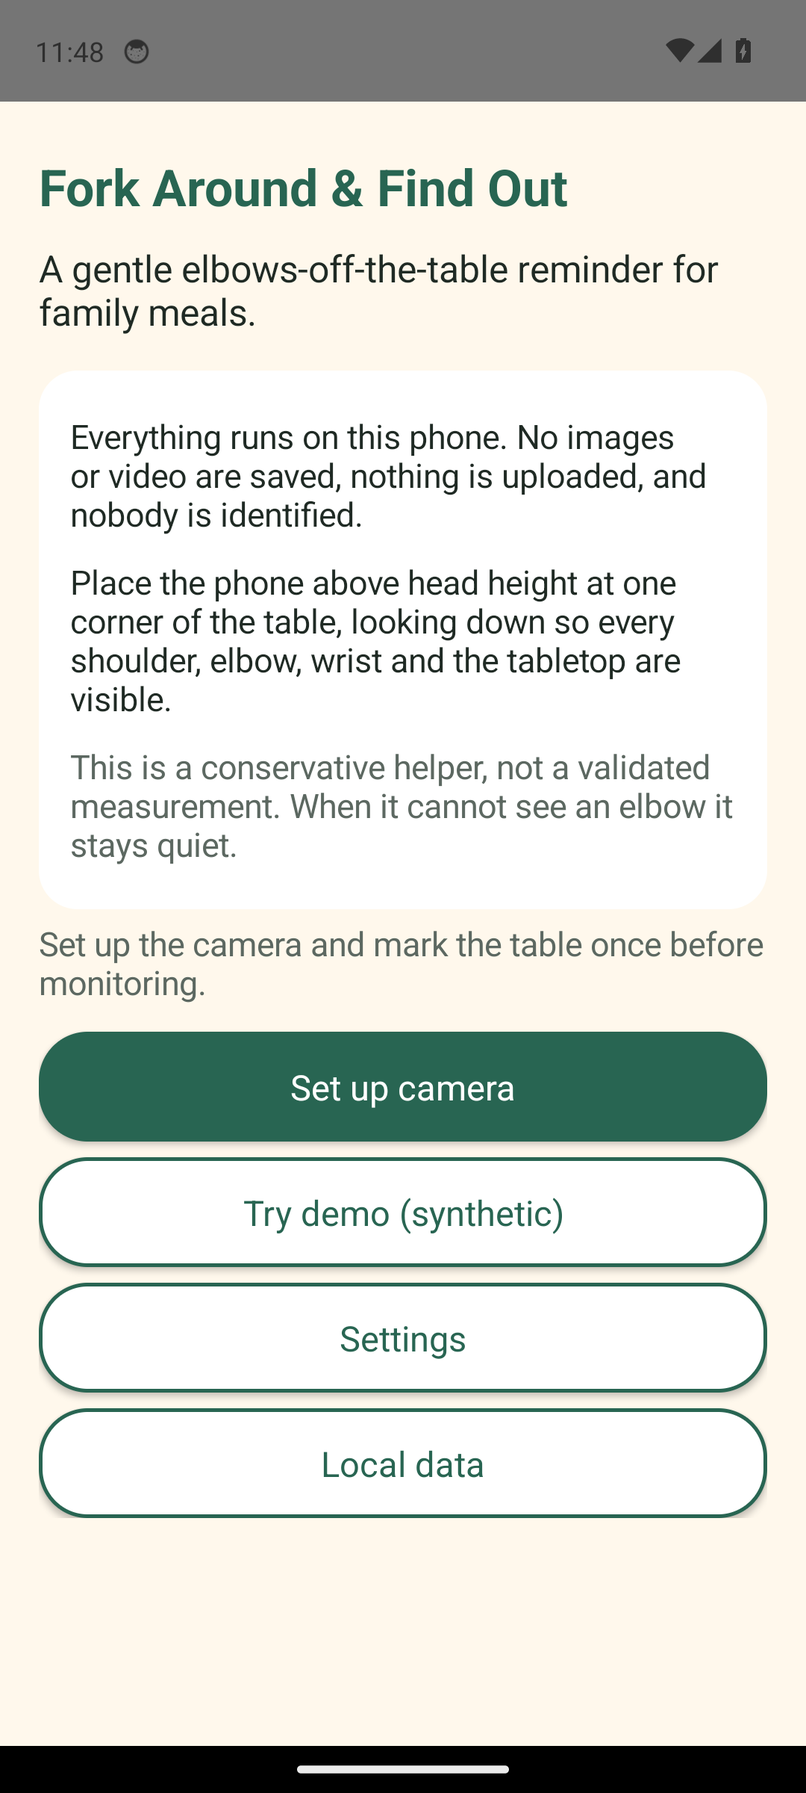
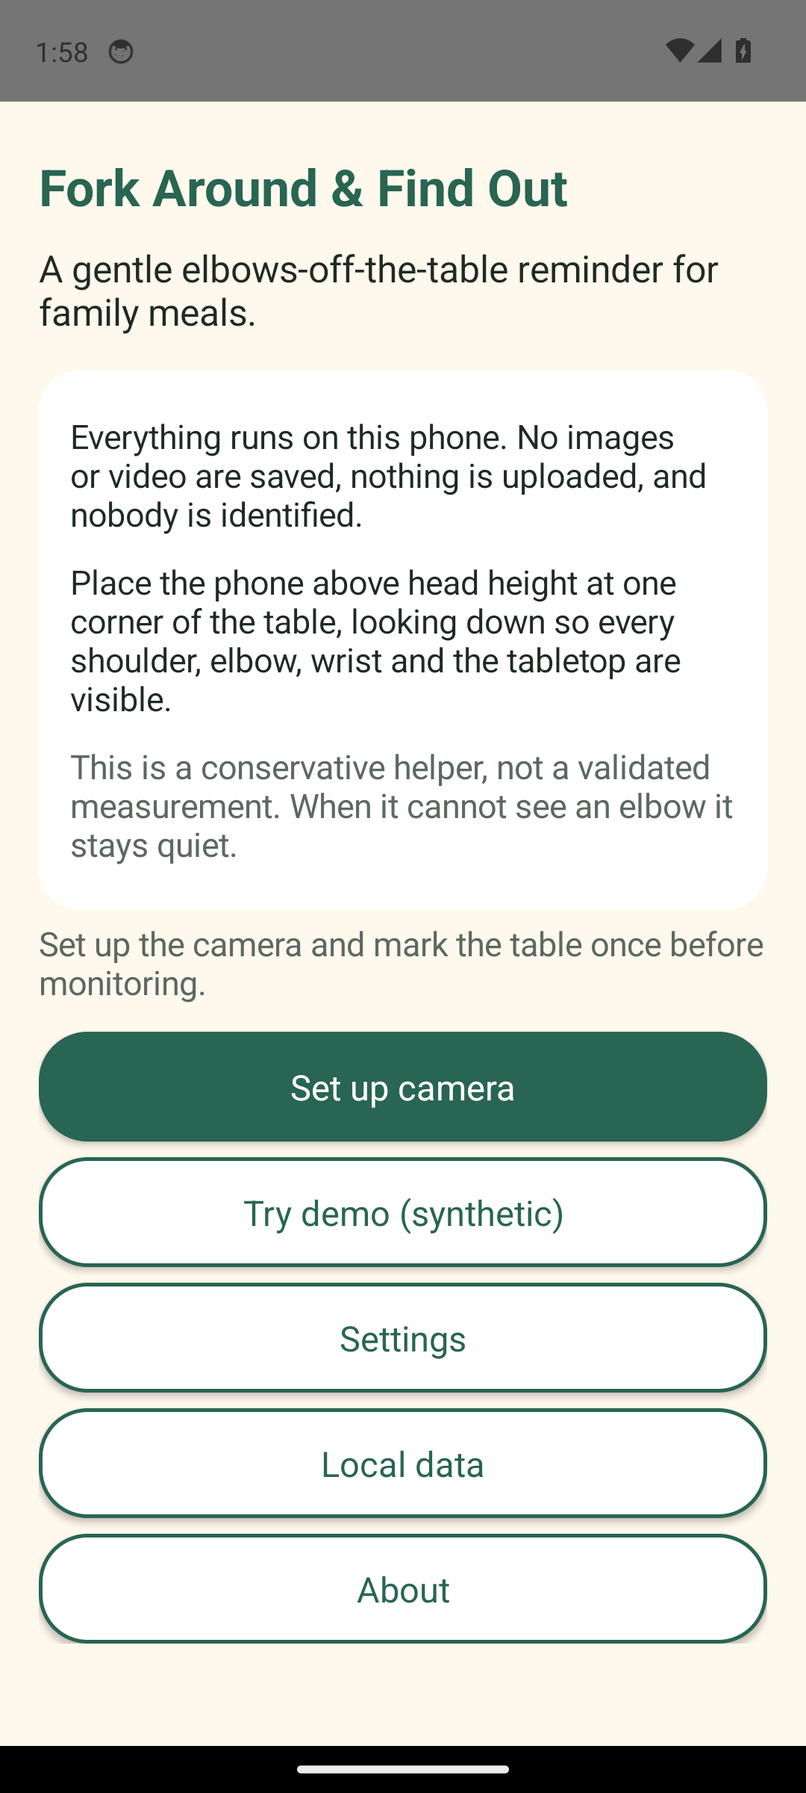
docs: complete README, architecture and hardware-validation protocol

diff --git a/scripts/check_links.py b/scripts/check_links.py
@@ -1,0 +1,45 @@
+#!/usr/bin/env python3
+# Copyright (C) 2026 Marcel Petrick. SPDX-License-Identifier: GPL-3.0-or-later.
+"""Check that relative Markdown links and image paths point to existing files, and that
+#anchors exist as headings in the target. External (http/https/mailto) links are skipped.
+
+Usage: scripts/check_links.py [FILE.md ...]   (default: all tracked *.md files)
+"""
+import re
+import subprocess
+import sys
+from pathlib import Path
+
+LINK = re.compile(r"!?\[[^\]]*\]\(([^)\s]+)\)")
+
+
+def anchors(path: Path) -> set:
+    result = set()
+    for line in path.read_text(encoding="utf-8").splitlines():
+        if line.startswith("#"):
+            title = line.lstrip("#").strip().lower()
+            result.add(re.sub(r"[^\w\- ]", "", title).replace(" ", "-"))
+    return result
+
+
+def check(markdown: Path) -> list:
+    problems = []
+    for target in LINK.findall(markdown.read_text(encoding="utf-8")):
+        if re.match(r"^(https?:|mailto:)", target):
+            continue
+        file_part, _, anchor = target.partition("#")
+        resolved = (markdown.parent / file_part).resolve() if file_part else markdown.resolve()
+        if not resolved.exists():
+            problems.append(f"{markdown}: missing {target}")
+        elif anchor and resolved.suffix == ".md" and anchor not in anchors(resolved):
+            problems.append(f"{markdown}: missing anchor {target}")
+    return problems
+
+
+if __name__ == "__main__":
+    files = [Path(f) for f in sys.argv[1:]] or [
+        Path(f) for f in subprocess.run(["git", "ls-files", "*.md"], capture_output=True, text=True, check=True).stdout.split()
+    ]
+    issues = [problem for markdown in files for problem in check(markdown)]
+    print("\n".join(issues) or f"{len(files)} Markdown files: all relative links resolve")
+    sys.exit(1 if issues else 0)

diff --git a/README.md b/README.md
@@ -1,40 +1,170 @@
 # Fork Around & Find Out
 
 [![Pipeline](https://github.com/marcelpetrick/ForkAroundAndFindOut/actions/workflows/pipeline.yml/badge.svg?branch=main)](https://github.com/marcelpetrick/ForkAroundAndFindOut/actions/workflows/pipeline.yml)
+[![Latest Release](https://img.shields.io/github/v/release/marcelpetrick/ForkAroundAndFindOut?sort=semver&include_prereleases)](https://github.com/marcelpetrick/ForkAroundAndFindOut/releases/latest)
 [![License: GPL v3 or later](https://img.shields.io/badge/license-GPLv3%20or%20later-blue.svg)](LICENSE)
 [![Android 14+](https://img.shields.io/badge/Android-14%2B%20%28API%2034%29-3ddc84.svg)](https://developer.android.com/about/versions/14)
 [![Kotlin 2.2](https://img.shields.io/badge/Kotlin-2.2-7f52ff.svg)](https://kotlinlang.org/)
 [![CameraX 1.6.2](https://img.shields.io/badge/CameraX-1.6.2-4285f4.svg)](https://developer.android.com/media/camera/camerax)
 [![MediaPipe Tasks 1.0.0](https://img.shields.io/badge/MediaPipe%20Tasks-1.0.0-0097a7.svg)](https://ai.google.dev/edge/mediapipe/solutions/vision/pose_landmarker/android)
-[![Coverage: 98%](https://img.shields.io/badge/coverage-98%25-brightgreen.svg)](app/build.gradle.kts)
+[![Coverage: 98%](https://img.shields.io/badge/coverage-98%25-brightgreen.svg)](localPipeline.sh)
 [![Coverage gate: 95%](https://img.shields.io/badge/coverage%20gate-95%25-brightgreen.svg)](localPipeline.sh)
-[![Offline: on-device](https://img.shields.io/badge/processing-on--device%2C%20offline-success.svg)](docs/detection.md)
+[![GHCR image](https://img.shields.io/badge/ghcr.io-forkaroundandfindout-2496ed.svg?logo=docker&logoColor=white)](https://github.com/marcelpetrick/ForkAroundAndFindOut/pkgs/container/forkaroundandfindout)
+[![Offline: no internet permission](https://img.shields.io/badge/network-none%20%28no%20INTERNET%20permission%29-success.svg)](docs/architecture.md#privacy-by-construction)
+[![Languages: en, de](https://img.shields.io/badge/languages-en%20%7C%20de-informational.svg)](app/src/main/res)
 
-An offline Android dining-table elbow monitor, written entirely in Kotlin.
-See [the delivery ledger](plan.md), [plan v2](plan_v2/plan_v2.md), [vision](vision.md)
-and [pose framework selection](docs/pose-frameworks.md).
+An offline Android app that watches a family dinner table through a phone camera and
+gently reminds whoever rests an elbow on the table. It uses MediaPipe body landmarks,
+a calibrated table outline and a conservative per-elbow temporal classifier, and it
+stays quiet when it is unsure. Everything runs on the phone: no images are saved,
+nothing is uploaded, nobody is identified. Written entirely in Kotlin.
 
 **Author: Marcel Petrick. License: GPLv3 or later. Built with AI assistance.**
 
-## Development
+## Status
 
-Install Java 21, Android SDK, Python 3 and ShellCheck. Set `ANDROID_HOME`, then:
+| Area | State |
+| --- | --- |
+| Camera, pose model, calibration, per-elbow detection, warnings, pause, settings, diagnostics, training logs, replay tool | Implemented and tested (unit, Robolectric, emulator end-to-end) |
+| Synthetic acceptance scenarios (vision §29) | Automated regression tests pass |
+| Real phone, real table, real meals (false alarms per meal, recall) | **Not yet measured** — see [hardware validation](docs/hardware-validation.md) |
+| Learned classifier, image classifier, depth, Raspberry Pi | Conditional future work per the vision; needs real, consented sessions first |
+
+Version 1.0.0 is reserved for when the real-meal targets are met and recorded.
+
+## Screenshots
+
+Genuine screenshots of the running app (Android 14 emulator). The demo shows generated
+stick figures, never camera footage; the setup screen shows the emulator's virtual camera.
+
+| Welcome | Synthetic demo with warning | Camera setup with visibility check | Settings |
+| --- | --- | --- | --- |
+| ![Welcome screen](docs/screenshots/welcome.png) | ![Synthetic demo: seat 2 rests the left elbow, red border warning](docs/screenshots/demo-synthetic-warning.png) | ![Position screen with the ten-second visibility check](docs/screenshots/setup-visibility-check.png) | ![Settings screen](docs/screenshots/settings.png) |
+
+## How it works
+
+```
+camera (CameraX, 640×360 analysis) → MediaPipe Pose Landmarker (≤ 4 people, 33 landmarks)
+  → seat tracking (no faces, no identity) → table-relative arm geometry + motion
+  → conservative rule: stationary, bent, supported elbow on the table
+  → per elbow: UNKNOWN / CLEAR / SUSPECT / VIOLATION with dwell, clearing and cooldown
+  → warning: red border (or icon / tint / slow pulse) and an optional soft chime
+```
+
+A reminder needs about one second of steady evidence; reaching, passing food and brief
+crossings do not trigger it. Hidden elbows are "Not visible", never "good posture".
+Details: [architecture](docs/architecture.md), [detection rules](docs/detection.md),
+[framework choice](docs/pose-frameworks.md), [UX](docs/ux.md).
+
+## Camera placement
+
+Put the phone **above head height at a corner of the table**, tilted down, so every
+shoulder, elbow and wrist and the whole tabletop are visible (a shelf or a small tripod
+works well). Avoid backlight. The setup's visibility check confirms the placement.
+
+## Usage
+
+1. **Set up camera** → the **visibility check** runs for 10 s with everyone seated.
+2. **Mark table**: tap the four tabletop corners (drag a corner to adjust).
+3. Optional **seats**: one region per place keeps assignments stable when people lean.
+4. **Start monitoring.** A short grace period, then reminders. **Pause** is always one tap.
+5. Adults can open **diagnostics**: FPS, latency, scores, *False alarm* (silences and
+   rests reminders for 30 s), *Missed violation*, and the opt-in **training mode**.
+
+Try it without a camera: **Try demo (synthetic)**.
+
+## Settings
+
+People (1–4), rear lens (Wide/Main/Tele), model (Full/Lite), evidence threshold, warning
+delay, clearing delay, cooldown, start grace, visual warning, sound (off / once / repeat /
+continuous chime), volume with *Test sound*, repeat interval, skeleton overlay, session
+statistics. Changing the lens clears the calibration.
+
+## Privacy
+
+- Frames are processed in memory and discarded; no image or video is ever written.
+- The app has **no internet permission**. MediaPipe ships a Google telemetry uploader;
+  its network access is removed from the manifest (builds before 0.9.26 did not do this —
+  see `plan.md`). A test fails if any network or storage permission reappears.
+- Local data is limited to settings, feedback taps, opt-in statistics and opt-in
+  training logs of body landmarks. Export and delete are on the *Local data* screen.
+  Backup is disabled. See [data](docs/data.md).
+
+## Training mode, data and replay
+
+Training mode records the session's landmarks and your labels (NORMAL, LEFT, RIGHT, BOTH,
+false alarm, missed) into a local gzip log. On a computer:
 
 ```sh
-./localPipeline.sh
+scripts/replay.sh demo-log /tmp/demo.jsonl.gz 3     # labelled synthetic session
+scripts/replay.sh replay /tmp/demo.jsonl.gz          # reminders, false alarms, recall
+scripts/replay.sh replay --trigger-ms 1500 meal-*.jsonl.gz   # tuning experiment
+```
+
+Evaluate by whole sessions, never by frames of the same meal ([data.md](docs/data.md)).
+
+## Setup
+
+Requirements: Java 21, Android SDK (`ANDROID_HOME`, platform 37 and build-tools),
+Python 3, ShellCheck, Docker (optional, for the Docker stage), an emulator or phone
+(optional, for end-to-end tests).
+
+```sh
+git clone https://github.com/marcelpetrick/ForkAroundAndFindOut.git
+cd ForkAroundAndFindOut
+./localPipeline.sh --noRun            # downloads the pinned models, checks, tests, builds
 adb install -r app/build/outputs/apk/debug/app-debug.apk
 ```
 
-Android 14/API 34 is the minimum. Compilation and target SDK are API 37.
-The pipeline formats/checks/tests/builds through pinned Gradle, runs identically
-on GitHub Actions, and enforces >=95% Kotlin line coverage. CI uploads APKs and
-reports. Release APKs are arm64-only and signed with the project key when it is
-configured (see [Docker and signing](docs/docker.md)).
+Release APKs are arm64-only and signed with the project key when it is configured
+([signing](docs/docker.md#release-signing)); fingerprint
+`AA:F8:58:04:C1:50:BB:DF:83:8A:28:49:B1:5A:7A:F3:F8:A9:74:7F:08:3E:A0:82:47:33:7A:10:7A:86:5A:E0`.
+
+## Testing
+
+| Level | Command | Covers |
+| --- | --- | --- |
+| JVM unit | `./gradlew :detection:test :core:test :tools:test` | geometry, rules, seat tracking, temporal filter, acceptance scenarios, monitor budgets, visibility check, session logs, replay |
+| Robolectric | `./gradlew :app:testDebugUnitTest` | every screen flow, calibration, alarms, pause, stale data, permissions, storage, export, German locale, privacy guard |
+| Coverage | `./gradlew :app:koverHtmlReportAll` | merged over all modules; gate ≥ 95 % lines (currently 98 %) |
+| End-to-end | `scripts/emulator.sh && ./gradlew :app:connectedDebugAndroidTest` | real MediaPipe models offline, UI flows with real touches on the emulator camera |
+| Docker | `scripts/docker-smoke.sh` | image serves APK with correct type and checksum, license, notices |
+
+## Pipeline and CI
+
+`./localPipeline.sh` runs numbered stages — models, ShellCheck, Python and chime check,
+whitespace, ktlint, Android lint (warnings are errors), unit tests with merged coverage,
+APK builds, end-to-end tests, Docker smoke test, coverage report, app launch — and prints
+a PASS/FAIL/WARN/SKIP summary. `--help` lists the options (`--noRun`, `--noOpen`,
+`--e2e auto|required|skip`, `--docker …`, `--report-dir`). GitHub Actions runs the same
+script inside an API 34 emulator with end-to-end and Docker required, signs the release
+from repository secrets, uploads APKs and reports, publishes the image to GHCR and, for
+`v*` tags, creates a GitHub release. All scripts: [docs/scripts.md](docs/scripts.md).
+
+## Docker and GHCR
+
+The phone does the monitoring; Docker distributes the app. A small pinned nginx image
+serves the signed APK, its SHA-256, the license and notices:
 
 ```sh
 docker run --rm -p 8080:8080 ghcr.io/marcelpetrick/forkaroundandfindout:latest
+# open http://<this-computer>:8080 on the phone and download the APK
 ```
 
-serves the signed APK, its checksum and the license for download to a phone.
+Details: [docs/docker.md](docs/docker.md).
 
-See [script documentation](docs/scripts.md) and [working rules](agents.md).
+## Roadmap (conditional, per the vision)
+
+1. Real-phone validation and meals (the protocol in [hardware validation](docs/hardware-validation.md)).
+2. Threshold tuning by replaying held-out real sessions.
+3. A small learned landmark classifier once enough labelled sessions exist.
+4. Only if landmarks prove insufficient: a local elbow-image classifier; optional depth.
+5. A Raspberry Pi / multi-camera appliance after the phone version is validated.
+
+## License and notices
+
+GPL-3.0-or-later ([LICENSE](LICENSE)). Third-party components (MediaPipe Tasks and
+models, AndroidX/CameraX, Kotlin — all Apache-2.0) are listed in [NOTICES.md](NOTICES.md)
+and on the in-app About screen. Planning history: [plan.md](plan.md) (ledger) and
+[plan_v2](plan_v2/plan_v2.md) (review and plan of record); original [vision](vision.md);
+[working rules](agents.md).

diff --git a/docs/architecture.md b/docs/architecture.md
@@ -1,0 +1,74 @@
+# Architecture
+
+Copyright (C) 2026 Marcel Petrick. SPDX-License-Identifier: GPL-3.0-or-later.
+
+> MediaPipe determines where the body is. Our own lightweight temporal classifier
+> determines whether an elbow is resting on the table. (vision §34)
+
+## Modules
+
+| Module | Kind | Content |
+| --- | --- | --- |
+| `:detection` | Kotlin/JVM, no Android | `Geometry` (points, convex polygons, signed distance, overlap), `Pose`/`ArmClassifier` (features and the conservative rule), `SeatTracker` (seat association without identity), `TemporalFilter` (UNKNOWN/CLEAR/SUSPECT/VIOLATION with hysteresis), `Detector`. Shared synthetic fixtures in `testFixtures`. |
+| `:core` | Kotlin/JVM, no Android | `Settings` model, `Monitor` (session owner: freshness/continuity budgets, health, grace, violation counting), `AlarmPolicy`, `VisibilityCheck`, `SessionLog` + `Replay`, `Json`, `SyntheticDemo`. |
+| `:tools` | JVM application | `replay` / `demo-log` command line over session logs (`scripts/replay.sh`). |
+| `:app` | Android (API 34+, target 37) | `CameraSession` (CameraX preview + analysis), `FrameAnalyzer` (allocation-free frame copy/rotation), `MediaPipeEngine`, `StageView` (overlay, taps, drags, warnings), `ChimeSpeaker`, `LocalStore`, `SessionRecorder`, `SettingsCodec`, `MainActivity` (screens). |
+
+Kover merges all four modules into one report; the 95 % line gate applies to the total.
+
+## Runtime pipeline
+
+```
+ CameraX Preview (720p) ─────────────────────────────► PreviewView (FIT_CENTER)
+ CameraX ImageAnalysis (640×360 RGBA, KEEP_ONLY_LATEST)
+   │ analysis thread
+   ▼
+ FrameAnalyzer ── busy? drop (counted) ── copy plane → reused bitmap → rotate upright
+   │
+   ▼ one frame in flight
+ MediaPipe PoseLandmarker (LIVE_STREAM, Full/Lite, ≤4 poses, 0.6 gates)
+   │ MediaPipe thread: result → analyzer.completed()
+   ▼ main thread
+ MainActivity.onFrame(poses, capture time, FrameInfo(aspect, rotation, latency))
+   ├─ Position: VisibilityCheck (10 s: people, arms visible, FPS)
+   ├─ Monitor.frame → Detector.process → per-seat, per-arm states
+   │     └─ SessionRecorder (training mode only): landmarks + live states
+   └─ StageView (image→view matrix) draws skeletons, table, seats, warnings
+ 100 ms watchdog tick: Monitor.tick → AlarmPolicy → ChimeSpeaker / visual warning
+```
+
+## One coordinate system
+
+Landmarks, table polygon, seat regions, taps, session logs and replay all use
+**normalized coordinates of the upright analysis image**. `CameraSession` provides the
+image→view matrix (CameraX `CoordinateTransform`); the overlay uses it for drawing and,
+inverted, for taps (letterbox taps are rejected). Calibration stores the image aspect
+and sensor rotation; a change of either invalidates it. Metric computations correct for
+the image aspect and normalize by shoulder width.
+
+## Time and failure policy
+
+- Freshness: a result older than max(1.5 s, 3 × median frame period) is discarded.
+- Continuity: gaps longer than max(500 ms floor, 3 × median period) reset evidence to
+  UNKNOWN. Median period > 200 ms → "processing is slow"; > 700 ms → "too slow", no warnings.
+- No single frame can warn: SUSPECT must persist for the trigger delay (default 1 s after
+  a 400 ms/3-sample motion window). Clearing needs 0.5 s below the clear threshold, then a
+  1.5 s cooldown.
+- Pause, backgrounding, camera loss (including "in use by another app"), stale data,
+  geometry change and model/native failures all silence immediately and explain the
+  recovery. Uncertainty is shown as "Not visible", never as good posture.
+
+## Privacy by construction
+
+No image is stored anywhere; frames live in two reused bitmaps. The merged manifest has no
+`INTERNET` permission (MediaPipe's telemetry transport is therefore blocked; see
+`plan.md` 0.9.26), backup is disabled, and `PrivacyGuardTest` fails if that changes.
+Local data is limited to settings, explicit feedback, opt-in statistics and opt-in
+training logs of landmarks (see [data.md](data.md)).
+
+## Why these choices
+
+See [pose framework selection](pose-frameworks.md) and `plan_v2/plan_v2.md` (twelve
+decisions with alternatives). In short: native Kotlin Views (small, testable with
+Robolectric), MediaPipe (multi-person, 33 landmarks, offline), rules before learning
+(no real data yet), landmark logs + replay so later tuning is measured on whole sessions.

diff --git a/docs/hardware-validation.md b/docs/hardware-validation.md
@@ -1,0 +1,51 @@
+# Hardware validation
+
+Copyright (C) 2026 Marcel Petrick. SPDX-License-Identifier: GPL-3.0-or-later.
+
+Automated tests prove software behaviour on synthetic data and on an emulator camera.
+They cannot prove how the app behaves at a real family table. That evidence must come
+from a real phone and consenting people, and **must never be fabricated**. This page is
+the protocol (from `plan_v2/plan_v2.md` §7) and the place to record results.
+
+## Evidence so far
+
+| Date | Device | What | Result |
+| --- | --- | --- | --- |
+| 2026-09-26 | Android 14 emulator (x86_64 host CPU), emulated rear camera | Full model, analysis 640×360 | 27.9 FPS, latency p50 23 ms / p95 35 ms (not phone evidence) |
+| 2026-09-26 | GitHub Actions emulator (API 34, pixel_6 profile) | E2E flows | about 5 FPS; the app correctly reports "Processing is slow" |
+| — | Real phone | Steps 1–5 below | **Not yet measured** |
+
+## Protocol
+
+Record every run with date, phone model, Android version, app version, model (Full/Lite),
+seat count, lens and orientation.
+
+1. **First contact.** Install the release APK (see the Docker page or the GitHub
+   release). Open *Set up camera*. Record FPS and latency p50/p95 from adult diagnostics for
+   Full and Lite with 1, 2 and 4 people; thermal status after 10 minutes; battery drain per
+   10 minutes. Choose the default model from these numbers.
+2. **Visibility (vision §19).** Intended placement: above head height, diagonal, from a
+   corner. With 1, 2 and 4 seated adults, long and short sleeves, plates and a bowl on the
+   table: does the visibility check pass? Target: every elbow visible in ≥ 90 % of frames.
+   If not met, move the phone before touching any threshold.
+3. **Behaviour (vision §29).** Consenting adults act each acceptance row three times
+   (knife and fork, forearms on the edge, hands below the table, reaching across, passing a
+   plate, brief crossing < 0.5 s, left/right/both elbows resting > 2 s, correction, hidden
+   elbow, leaving the seat, someone walking past, a bowl occluding an arm). Record the
+   state shown and the reminder timing. Tap *False alarm* for every wrong reminder.
+4. **Meals.** At least three ordinary meals with training mode on and consent from
+   everyone present. Record false alarms per meal, missed sustained violations (tap
+   *Missed violation*), UNKNOWN fraction per seat, FPS over time and thermal events. Export
+   the logs and run `scripts/replay.sh replay` on them; change thresholds only by replaying
+   held-out sessions.
+5. **Targets for 1.0.0.** < 1 false alarm per ordinary meal; > 95 % of violations lasting
+   > 2 s reminded within 3 s; no stuck warnings; no crashes; the phone does not throttle
+   within 45 minutes.
+
+Version 1.0.0 is declared only when these targets are met and recorded here.
+
+## Result template
+
+| Date | Phone / Android | App | Model | People | Lens / orientation | Step | Measurements | Notes |
+| --- | --- | --- | --- | --- | --- | --- | --- | --- |
+| | | | | | | | | |

diff --git a/plan.md b/plan.md
@@ -72,7 +72,7 @@ Instructions from the owner, recorded so any agent can resume faithfully.
 - [x] Step 08: Docker image that serves the release APK plus source/license links;
   Docker smoke test in the pipeline; GitHub Actions workflow builds and publishes
   to GHCR; verify by pulling and running the published image.
-- [ ] Step 09: README (badges, setup, usage, testing, pipeline, Docker, screenshot),
+- [x] Step 09: README (badges, setup, usage, testing, pipeline, Docker, screenshot),
   script docs, architecture, hardware validation checklist, full vision traceability.
 - [ ] Step 10: run `/reviewBranch`, fix confirmed findings, run `/githubAbout`, audit
   every `vision.md` section, full local pipeline, green Actions, verified GHCR image,
@@ -557,3 +557,23 @@ require consented physical sessions and must not be fabricated.
 - Done: the test locates the readout by "latency p50". Product behaviour unchanged and
   correct (slow-processing message on a slow device).
 - Validation: 4 instrumented tests PASS on the local emulator.
+
+### 0.9.28 — docs: complete README, architecture and hardware-validation protocol (plan_v2 M7)
+
+- Done: README rewritten per plan_v2 §3.14.1: badge set in the myLastFmPlayer/
+  Cullendula style (pipeline, latest release, license, Android, Kotlin, CameraX,
+  MediaPipe, coverage, gate, GHCR, no-network, languages), honest status table, four
+  genuine emulator screenshots (welcome, synthetic demo warning, setup visibility check on
+  the emulator camera, settings), how it works, placement, usage, settings, privacy
+  (including the pre-0.9.26 telemetry disclosure), training/replay, setup, testing levels,
+  pipeline/CI, Docker/GHCR, roadmap, license/notices. New `docs/architecture.md` and
+  `docs/hardware-validation.md` (plan_v2 §7 protocol, emulator numbers labelled as such,
+  real-phone rows "not yet measured"). `scripts/screenshots.sh` grants the camera after
+  `pm clear` and adds the setup screen. `scripts/check_links.py` (pipeline) verifies all
+  relative Markdown links and anchors.
+- Decisions on plan_v2 §9 open questions (owner did not answer; defaults taken):
+  German added; default people stays 4 (vision FR-03 1–4, one tap to reduce); orientation
+  follows how the phone is propped (both layouts supported; locked while calibrated);
+  no Heavy model download; new project-specific release key; registry name as proposed.
+- Validation: full pipeline green (51 tests, 98.2 %, E2E 4/4, Docker PASS, 16 Markdown
+  files with valid links).

diff --git a/docs/scripts.md b/docs/scripts.md
@@ -18,6 +18,7 @@ wrapper.
 | `scripts/docker-smoke.sh [TAG]` | Stage, build and run the distribution image, then verify health, install page, license, APK MIME type and checksum, and 404 for missing paths. The pipeline's Docker stage runs it. |
 | `scripts/replay.sh replay [OPTIONS] LOG...` | Re-run the detector over recorded training session logs (`.jsonl[.gz]`) and print reminders, false-alarm overlaps, detected labels, UNKNOWN fraction and live/replay agreement; `--trigger-ms/--clear-ms/--cooldown-ms/--window-ms` for tuning experiments. `scripts/replay.sh demo-log OUT [LOOPS]` writes the labelled synthetic session. See [data.md](data.md). |
 | `python3 scripts/chime.py [--check]` | Regenerate the reminder chime `app/src/main/res/raw/chime.wav` deterministically (two soft notes, 22.05 kHz mono); `--check` (run by the pipeline) fails if the committed file differs. |
+| `python3 scripts/check_links.py [FILE.md...]` | Verify that relative links, image paths and `#anchors` in Markdown files resolve (default: all tracked `*.md`). Run by the pipeline. |
 | `python3 scripts/models.py` | Download MediaPipe Pose Landmarker Full/Lite (model version 1) into ignored `app/src/main/assets/` and verify SHA-256 from `models/checksums.json`. Idempotent; the pipeline runs it first. |
 | `python3 scripts/report.py tests DIR` / `coverage XML` | Summarize JUnit XML results or Kover line coverage for the pipeline summary. |
 | `python3 scripts/version.py patch\|minor` | Increment VERSION patch and the Android BUILD_NUMBER; `minor` also bumps the minor component for a major feature. Run once per commit. |
